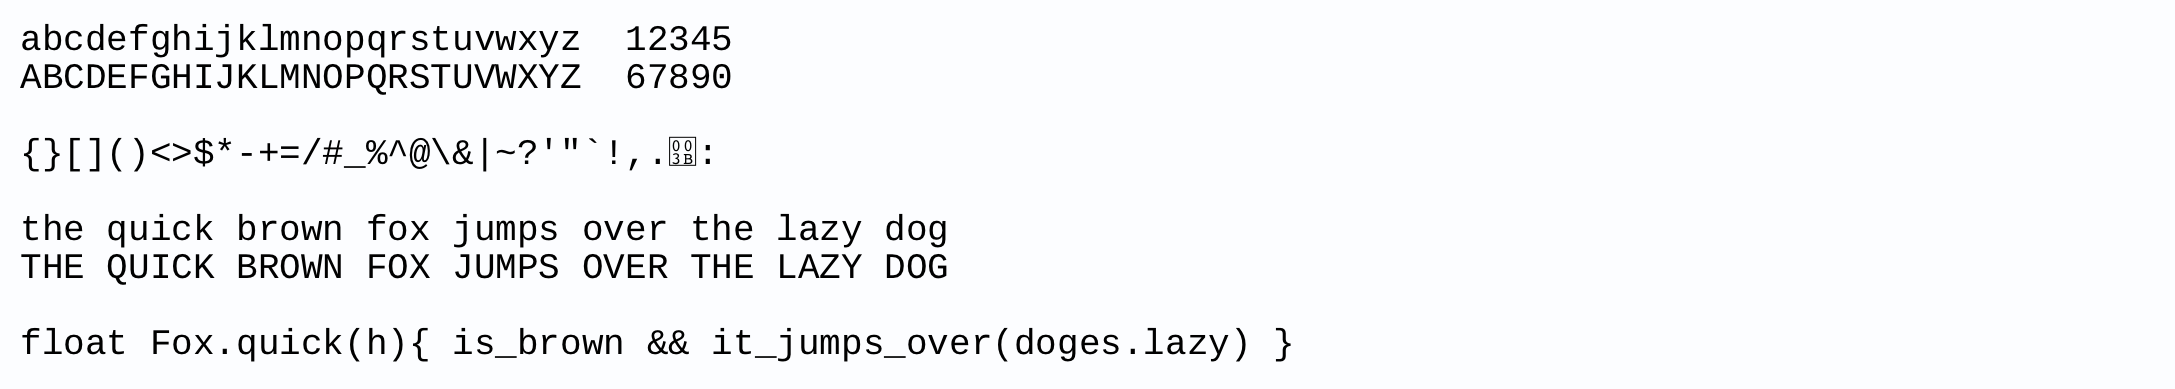
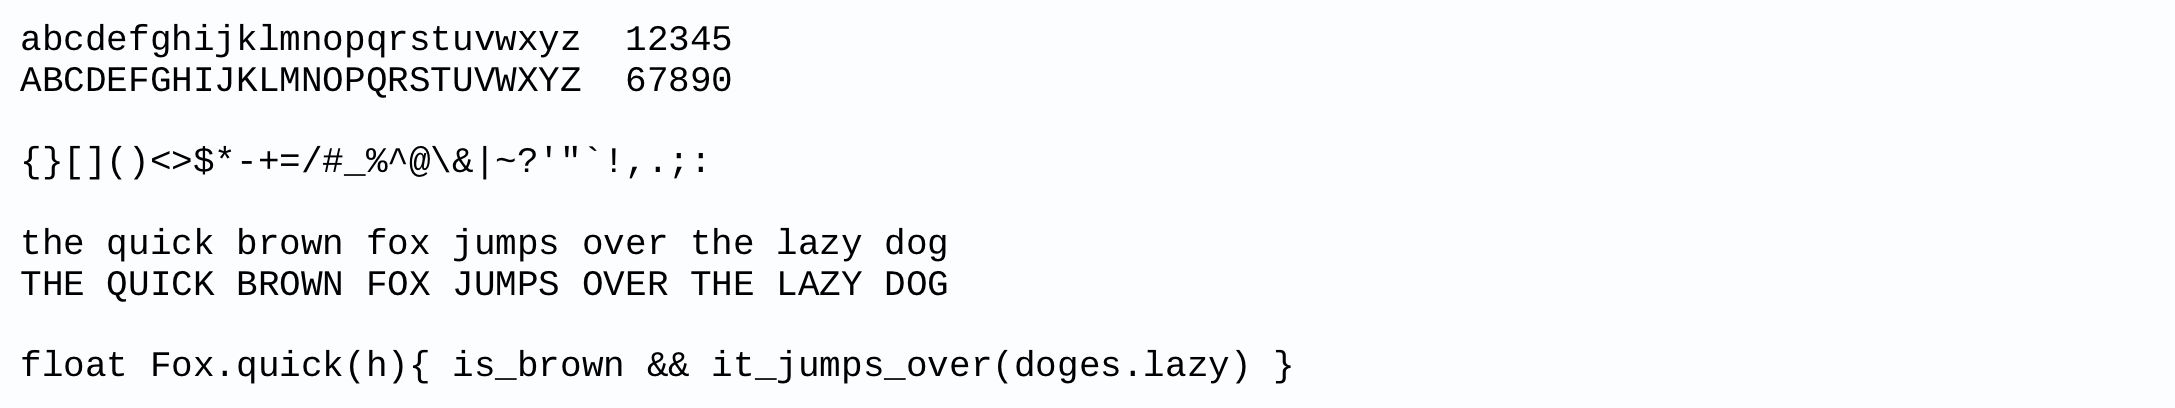
updated Cousine images

diff --git a/scripts/utilities/font.py b/scripts/utilities/font.py
@@ -1,5 +1,5 @@
 DEFAULT_SIZE = "14"
 
 font_list = [
-    ["agave", {'size': DEFAULT_SIZE, 'filename': 'agave'}]
+    ["Cousine", {'size': DEFAULT_SIZE, 'filename': 'cousine'}]
 ]
